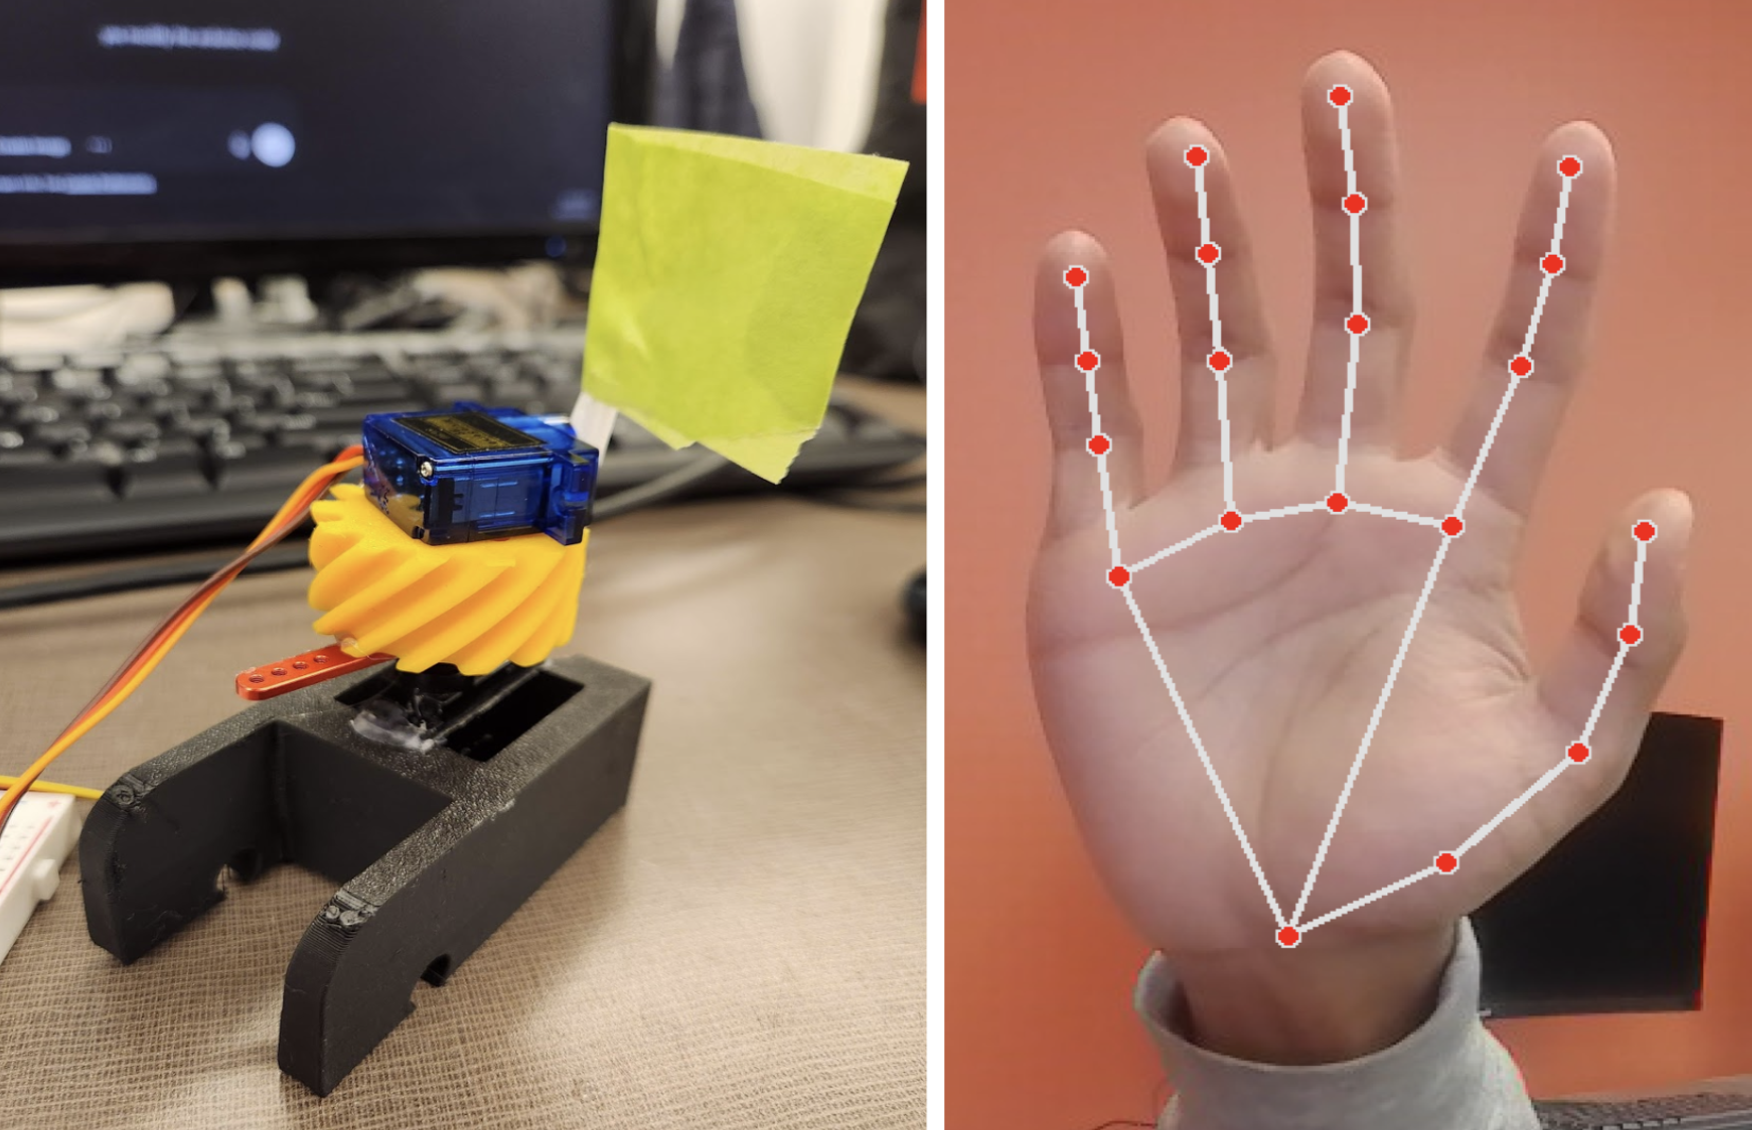
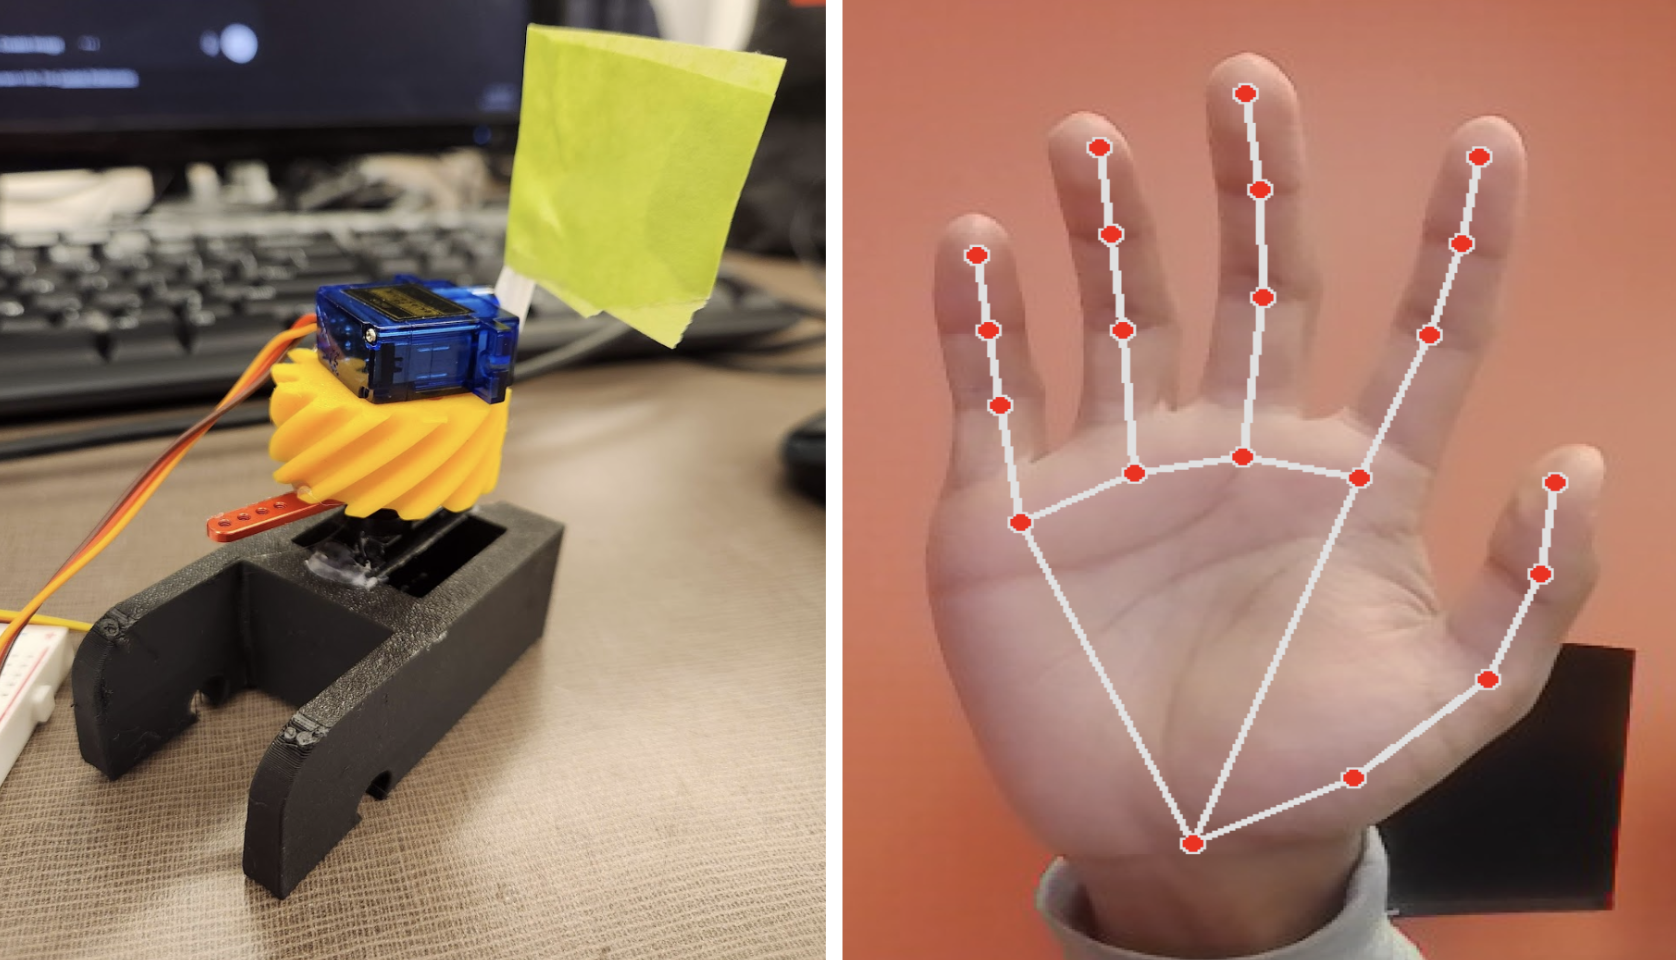
Updated palm tracker cover image

diff --git a/index.html b/index.html
@@ -46,7 +46,7 @@
         <div class="card" onclick="window.location.href='actuator-test-stand.html'">
             <img src="project2-thumb.png" alt="Heart Aerospace actuator test stand" class="card-img">
             <h3>Heart Aerospace Actuator Test Stand</h3>
-            <span class="tech-stack">Python · CANopen · Raspberry Pi</span>
+            <span class="tech-stack">Python · CANopen · Raspberry Pi · Git</span>
         </div>
 
         <div class="card" onclick="window.location.href='2026-delta-wing-aircraft.html'">
@@ -74,9 +74,9 @@
         </div>
 
         <div class="card" onclick="window.location.href='robotic-palm-tracker.html'">
-            <img src="project5-thumb.png" alt="Robotic palm tracker" class="card-img" style="object-position: 50% 25%;">
+            <img src="project5-thumb.png" alt="Robotic Palm tracker" class="card-img" style="object-position: 50% 25%;">
             <h3>Robotic palm Tracker</h3>
-            <span class="tech-stack">Python · Arduino · OpenCV</span>
+            <span class="tech-stack">Python · C++ · Arduino · OpenCV</span>
         </div>
 
         <div class="card" onclick="window.location.href='exosuit.html'">
